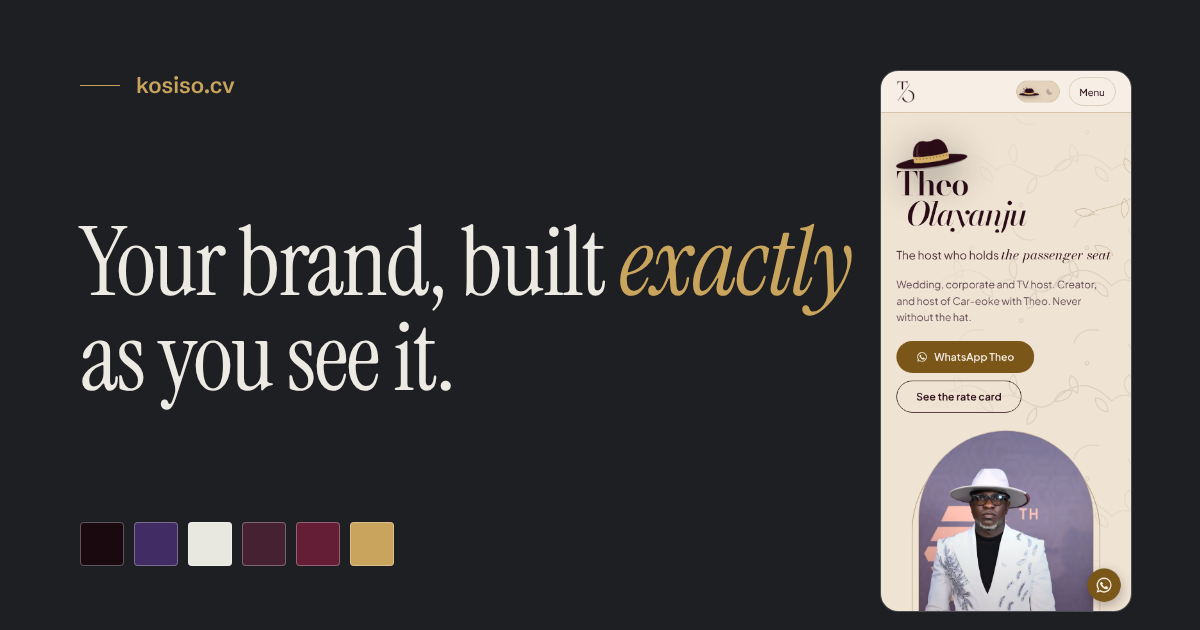
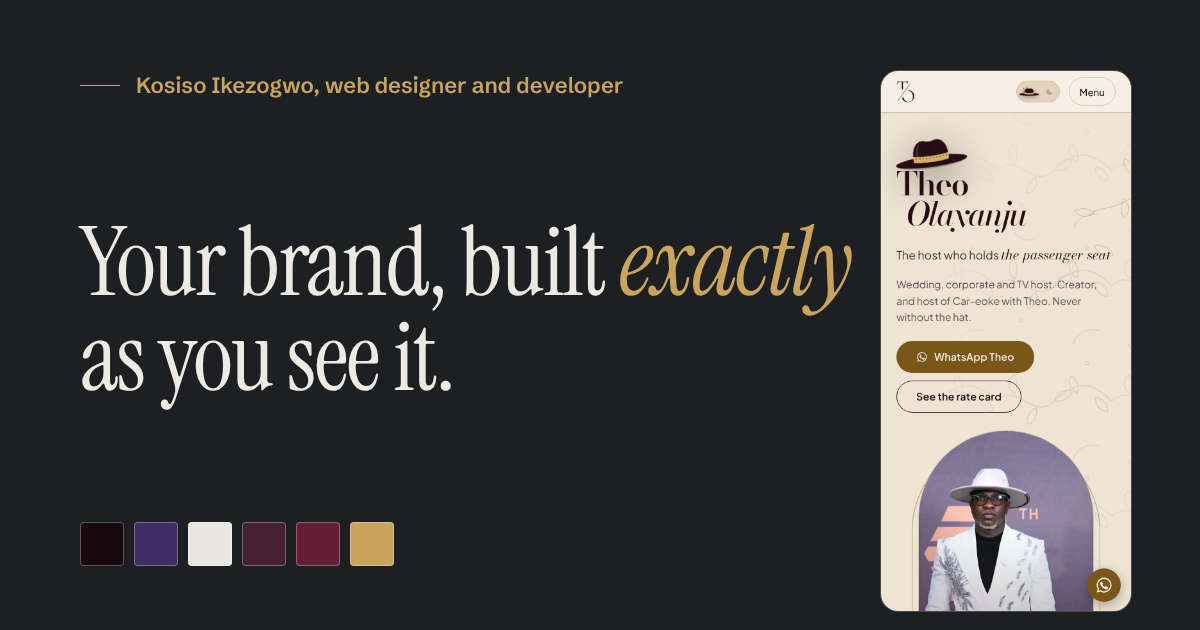
Add contact details and live links; drop kosiso.cv domain
- WhatsApp (+234 913 310 3410) now drives every "Start your website"
  button; contact section adds an email button, LinkedIn moves to the
  links row
- Kinta & Co. and Drip Bunny case studies link to their live sites
- Site URL falls back to Vercel's production URL until a custom domain
  is set in data/site.ts; share image no longer shows kosiso.cv

Claude-Session: https://claude.ai/code/session_01WsSgqesH4SrX6qjc3ibKdS

Changed region(s): [[0.0925, 0.1206, 0.5242, 0.1508]]

diff --git a/app/page.tsx b/app/page.tsx
@@ -239,12 +239,24 @@ export default function Home() {
           </p>
           <div className="btn-row">
             <ContactButton label="Start your website" />
-            <a className="btn btn-secondary" href={site.social.linkedin} target="_blank" rel="noopener noreferrer">
-              Connect on LinkedIn
-            </a>
+            {site.contact.email ? (
+              <a
+                className="btn btn-secondary"
+                href={`mailto:${site.contact.email}?subject=${encodeURIComponent("Website project")}`}
+              >
+                Email me
+              </a>
+            ) : (
+              <a className="btn btn-secondary" href={site.social.linkedin} target="_blank" rel="noopener noreferrer">
+                Connect on LinkedIn
+              </a>
+            )}
           </div>
           <div className="contact-alt">
             {site.contact.email && <a href={`mailto:${site.contact.email}`}>{site.contact.email}</a>}
+            <a href={site.social.linkedin} target="_blank" rel="noopener noreferrer">
+              LinkedIn
+            </a>
             <a href={site.social.github} target="_blank" rel="noopener noreferrer">
               github.com/ciscokwiz
             </a>

diff --git a/data/site.ts b/data/site.ts
@@ -6,7 +6,9 @@
 
 export const site = {
   // The live address, no trailing slash. Used for Google and link previews.
-  url: "https://kosiso.cv",
+  // Leave as "" while the site lives on its Vercel address: Vercel tells the
+  // build its own production URL. Set this when a custom domain is added.
+  url: "",
 
   name: "Kosiso Ikezogwo",
   // The short name used for the wordmark in the nav.
@@ -22,9 +24,9 @@ export const site = {
     // WhatsApp number: digits only, country code first, no "+" or spaces,
     // e.g. "2348012345678". When set, every "Start a project" button opens
     // a WhatsApp chat with a message already written.
-    whatsapp: "",
+    whatsapp: "2349133103410",
     // Shown as a button in the contact section when set.
-    email: "",
+    email: "ikezogwokosiso16@gmail.com",
     // Message pre-filled in WhatsApp and in the email subject line.
     message: "Hi Kosiso, I saw your portfolio and I'd like a website for my business.",
   },

diff --git a/data/projects.ts b/data/projects.ts
@@ -113,7 +113,7 @@ export const projects: Project[] = [
     client: "Kinta & Co.",
     kind: "Streetwear label",
     summary: "An interactive 3D clothing rack: hover a garment to swivel it, tap to open the product.",
-    url: "",
+    url: "https://kintaluxury.vercel.app",
     year: "2026",
     stage: "#E8E8E0",
     ink: "#171914",
@@ -146,7 +146,7 @@ export const projects: Project[] = [
     client: "Drip Bunny",
     kind: "Pour-painting craft kit",
     summary: "A storefront with a 3D marble-paint playground where you pour your own colourway.",
-    url: "",
+    url: "https://dripbunny.vercel.app",
     year: "2026",
     stage: "#462132",
     ink: "#FFFAF1",

diff --git a/app/layout.tsx b/app/layout.tsx
@@ -7,9 +7,10 @@ import "./globals.css";
 import { Nav } from "@/components/Nav";
 import { Footer } from "@/components/Footer";
 import { site } from "@/data/site";
+import { siteUrl } from "@/lib/site-url";
 
 export const metadata: Metadata = {
-  metadataBase: new URL(site.url),
+  metadataBase: new URL(siteUrl()),
   title: {
     default: `${site.name} — Websites built exactly the way you see your brand`,
     template: `%s — ${site.name}`,
@@ -36,7 +37,7 @@ const personLd = {
   "@type": "Person",
   name: site.name,
   jobTitle: site.role,
-  url: site.url,
+  url: siteUrl(),
   sameAs: [site.social.github, site.social.linkedin],
 };
 

diff --git a/app/sitemap.ts b/app/sitemap.ts
@@ -1,10 +1,10 @@
 import type { MetadataRoute } from "next";
 import { projects } from "@/data/projects";
-import { site } from "@/data/site";
+import { siteUrl } from "@/lib/site-url";
 
 export default function sitemap(): MetadataRoute.Sitemap {
   return [
-    { url: `${site.url}/`, changeFrequency: "monthly", priority: 1 },
-    ...projects.map((p) => ({ url: `${site.url}/work/${p.slug}`, changeFrequency: "yearly" as const, priority: 0.8 })),
+    { url: `${siteUrl()}/`, changeFrequency: "monthly", priority: 1 },
+    ...projects.map((p) => ({ url: `${siteUrl()}/work/${p.slug}`, changeFrequency: "yearly" as const, priority: 0.8 })),
   ];
 }

diff --git a/lib/site-url.ts b/lib/site-url.ts
@@ -1,0 +1,10 @@
+import { site } from "@/data/site";
+
+/** The address the site calls itself: the custom domain in data/site.ts if
+ *  set, otherwise the production URL Vercel gives the build. */
+export function siteUrl(): string {
+  if (site.url) return site.url;
+  const vercel = process.env.VERCEL_PROJECT_PRODUCTION_URL;
+  if (vercel) return `https://${vercel}`;
+  return "http://localhost:3000";
+}

diff --git a/app/robots.ts b/app/robots.ts
@@ -1,6 +1,6 @@
 import type { MetadataRoute } from "next";
-import { site } from "@/data/site";
+import { siteUrl } from "@/lib/site-url";
 
 export default function robots(): MetadataRoute.Robots {
-  return { rules: { userAgent: "*", allow: "/" }, sitemap: `${site.url}/sitemap.xml` };
+  return { rules: { userAgent: "*", allow: "/" }, sitemap: `${siteUrl()}/sitemap.xml` };
 }

diff --git a/EDITING.md b/EDITING.md
@@ -29,4 +29,4 @@ npm run check    # typecheck + client colour contrast + production build
 1. https://vercel.com/new → import `ciscokwiz/ciscokwiz`.
 2. Framework: Next.js (detected). Root directory: `./`. No environment variables.
 3. Deploy. Every push to the production branch redeploys.
-4. Domain: Project → Settings → Domains → add `kosiso.cv` (or whichever domain you use), then set the same address as `url` in `data/site.ts`.
+4. Custom domain (optional): Project → Settings → Domains, then set the same address as `url` in `data/site.ts`. Until then the site uses its Vercel address automatically.
